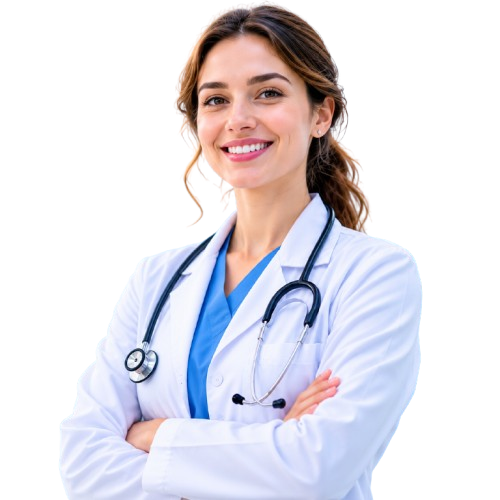
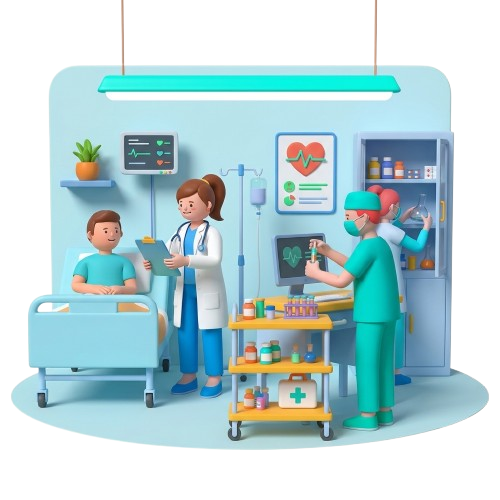
BioGraphy Section Created

diff --git a/frontend/src/App.css b/frontend/src/App.css
@@ -274,3 +274,158 @@ body {
     max-width: 100%;
   }
 }
+
+.biography {
+  display: flex;
+  justify-content: center;
+  align-items: center;
+  gap: 50px;
+  width: 100%;
+  max-width: 1400px;
+  margin: 30px auto 0;
+  padding: 0 80px;
+  box-sizing: border-box;
+}
+
+.biography .biography-content {
+  flex: 1;
+  min-width: 0;
+}
+
+.biography .biography-content img {
+  display: block;
+  width: 100%;
+  max-width: 400px;
+  height: auto;
+  object-fit: cover;
+  cursor: pointer;
+  border-radius: 8px;
+}
+
+.biography .biography-content h1 {
+  font-size: clamp(24px, 3.5vw, 46px);
+  line-height: 1.2;
+  margin: 0;
+}
+
+.biography .biography-content h4 {
+  font-size: clamp(18px, 2.5vw, 32px);
+  line-height: 1.3;
+  margin-top: 10px;
+}
+
+.biography .biography-content p {
+  font-size: clamp(14px, 1.2vw, 16px);
+  line-height: 1.7;
+  margin-top: 10px;
+}
+
+@media (max-width: 1200px) {
+  .biography {
+    padding: 0 50px;
+    gap: 35px;
+  }
+
+  .biography .biography-content img {
+    max-width: 380px;
+  }
+}
+
+@media (max-width: 992px) {
+  .biography {
+    padding: 0 30px;
+    gap: 25px;
+  }
+
+  .biography .biography-content img {
+    max-width: 350px;
+  }
+}
+
+@media (max-width: 768px) {
+  .biography {
+    flex-direction: column-reverse;
+    align-items: center;
+    justify-content: center;
+    gap: 25px;
+    padding: 0 25px;
+    margin-top: 25px;
+  }
+
+  .biography .biography-content {
+    width: 100%;
+    text-align: center;
+  }
+
+  .biography .biography-content img {
+    width: 100%;
+    max-width: 500px;
+    margin: 0 auto;
+  }
+
+  .biography .biography-content h1 {
+    font-size: 28px;
+  }
+
+  .biography .biography-content h4 {
+    font-size: 20px;
+  }
+
+  .biography .biography-content p {
+    font-size: 14px;
+  }
+}
+
+@media (max-width: 480px) {
+  .biography {
+    flex-direction: column-reverse;
+    padding: 0 15px;
+    gap: 20px;
+    margin-top: 20px;
+  }
+
+  .biography .biography-content {
+    width: 100%;
+    text-align: center;
+  }
+
+  .biography .biography-content img {
+    width: 100%;
+    max-width: 100%;
+    height: auto;
+  }
+
+  .biography .biography-content h1 {
+    font-size: 24px;
+  }
+
+  .biography .biography-content h4 {
+    font-size: 18px;
+    margin-top: 10px;
+  }
+
+  .biography .biography-content p {
+    font-size: 14px;
+    line-height: 1.6;
+    margin-top: 10px;
+  }
+}
+
+@media (max-width: 360px) {
+  .biography {
+    padding: 0 12px;
+    gap: 15px;
+  }
+
+  .biography .biography-content h1 {
+    font-size: 21px;
+  }
+
+  .biography .biography-content h4 {
+    font-size: 17px;
+  }
+
+  .biography .biography-content p {
+    font-size: 13px;
+  }
+}

diff --git a/frontend/src/components/Biography.jsx b/frontend/src/components/Biography.jsx
@@ -1,7 +1,7 @@
 const Biography = ({ imgUrl }) => {
   return (
     <>
-      {/* <div className="biography">
+      <div className="biography">
         <div className="biography-content">
           <img src={imgUrl} alt="" />
         </div>
@@ -19,7 +19,7 @@ const Biography = ({ imgUrl }) => {
             perspiciatis expedita tenetur omnis placeat
           </p>
         </div>
-      </div> */}
+      </div>
     </>
   );
 };

diff --git a/frontend/src/Pages/Home.jsx b/frontend/src/Pages/Home.jsx
@@ -10,7 +10,7 @@ const Home = () => {
   return (
     <>
       <Hero
-        title={"Your Health, Our Priority. Expert care anytime, any where."}
+        title={"Your Health, Our Priority. Expert care anytime,any where."}
         imgUrl={HeroImg}
       />
       <Biography imgUrl={biographyImg} />
